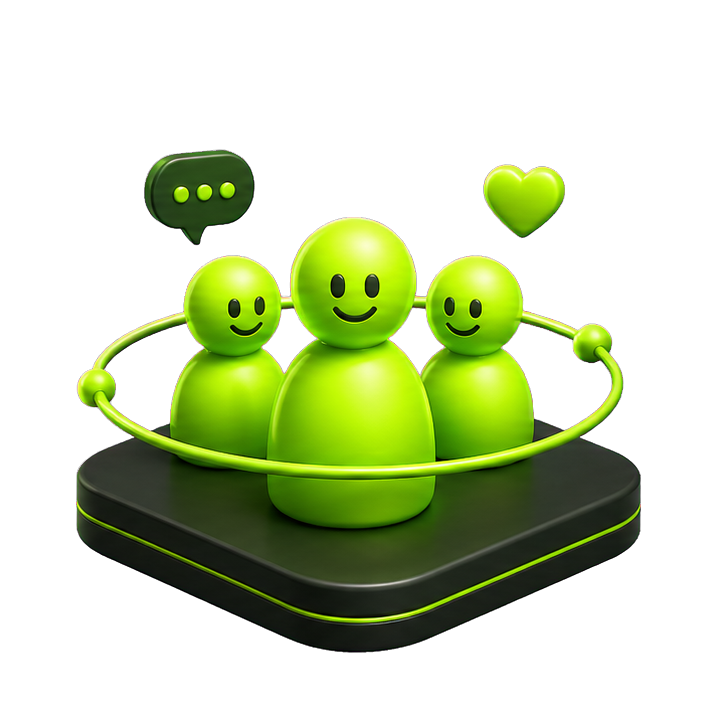
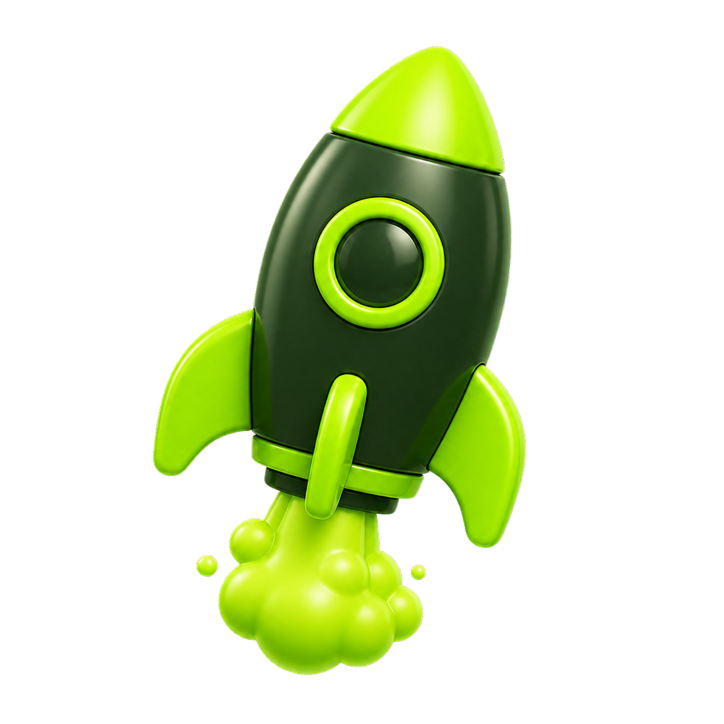
onboard second image fixed

diff --git a/mobile/app/index.tsx b/mobile/app/index.tsx
@@ -1,5 +1,5 @@
 import { useEffect, useState } from 'react';
-import { Image, Pressable, StyleSheet, Text, View } from 'react-native';
+import { BackHandler, Image, Pressable, StyleSheet, Text, View } from 'react-native';
 import { router } from 'expo-router';
 import { colors, Logo, Screen } from '@/components/Screen';
 
@@ -10,17 +10,17 @@ const targetImage = require('../assets/onboarding-target.png');
 
 const slides = [
   {
-    image: rocketImage,
+    image: targetImage,
     title: 'Бизнесээ эхлүүлэх,\nмөрөөдлөө биелүүл.',
     body: 'Мэдлэг, туршлага, зөвлөгөө,\nхамтын сүлжээ — бүгд нэг дор.',
   },
   {
-    image: communityImage,
+    image: rocketImage,
     title: 'Туршлагатай менторуудаас\nзөвлөгөө аваарай.',
     body: 'Бизнесийн өсөлтөд хэрэгтэй бодит\nтуршлага, практик зөвлөгөөнүүд.',
   },
   {
-    image: targetImage,
+    image: communityImage,
     title: 'Community-д нэгдэж,\nхөгжлийн боломжоо нээгээрэй.',
     body: 'Ижил зорилготой хүмүүстэй холбогдож,\nхамтдаа өсөх хөгжилцгөөе.',
   },
@@ -33,6 +33,17 @@ export default function Index() {
     const id = setTimeout(() => setSplash(false), 1500);
     return () => clearTimeout(id);
   }, []);
+
+  useEffect(() => {
+    if (splash || page === 0) return;
+
+    const subscription = BackHandler.addEventListener('hardwareBackPress', () => {
+      setPage((currentPage) => Math.max(0, currentPage - 1));
+      return true;
+    });
+
+    return () => subscription.remove();
+  }, [page, splash]);
 
   if (splash)
     return (
@@ -57,9 +68,23 @@ export default function Index() {
   const slide = slides[page];
   return (
     <Screen>
-      <Pressable style={styles.skip} onPress={() => router.replace('/login')}>
-        <Text style={styles.skipText}>Алгасах</Text>
-      </Pressable>
+      <View style={styles.topActions}>
+        {page > 0 ? (
+          <Pressable
+            accessibilityLabel="Өмнөх хуудас"
+            hitSlop={12}
+            style={styles.back}
+            onPress={() => setPage((currentPage) => currentPage - 1)}
+          >
+            <Text style={styles.backText}>‹</Text>
+          </Pressable>
+        ) : (
+          <View />
+        )}
+        <Pressable style={styles.skip} onPress={() => router.push('/login')}>
+          <Text style={styles.skipText}>Алгасах</Text>
+        </Pressable>
+      </View>
       <View style={styles.illustration}>
         <Image source={slide.image} resizeMode="contain" style={styles.image} />
       </View>
@@ -73,7 +98,11 @@ export default function Index() {
       <View style={styles.bottom}>
         <Pressable
           style={styles.button}
-          onPress={() => (page < 2 ? setPage(page + 1) : router.replace('/login'))}
+          onPress={() =>
+            page < slides.length - 1
+              ? setPage((currentPage) => currentPage + 1)
+              : router.push('/login')
+          }
         >
           <Text style={styles.buttonText}>{page === 2 ? 'Эхлэх' : 'Дараах'}</Text>
           <Text style={styles.arrow}>{page === 2 ? '' : '→'}</Text>
@@ -151,7 +180,16 @@ const styles = StyleSheet.create({
     borderRadius: 2,
     backgroundColor: colors.lime,
   },
-  skip: { alignSelf: 'flex-end', paddingVertical: 6, paddingLeft: 15, zIndex: 2 },
+  topActions: {
+    minHeight: 34,
+    flexDirection: 'row',
+    alignItems: 'center',
+    justifyContent: 'space-between',
+    zIndex: 2,
+  },
+  back: { minWidth: 32, minHeight: 32, alignItems: 'center', justifyContent: 'center' },
+  backText: { color: '#FFFFFF', fontSize: 34, lineHeight: 34, fontWeight: '300' },
+  skip: { paddingVertical: 6, paddingLeft: 15 },
   skipText: { color: '#FFFFFF', fontSize: 13 },
   illustration: { height: 350, alignItems: 'center', justifyContent: 'center' },
   image: { width: '116%', height: '100%' },